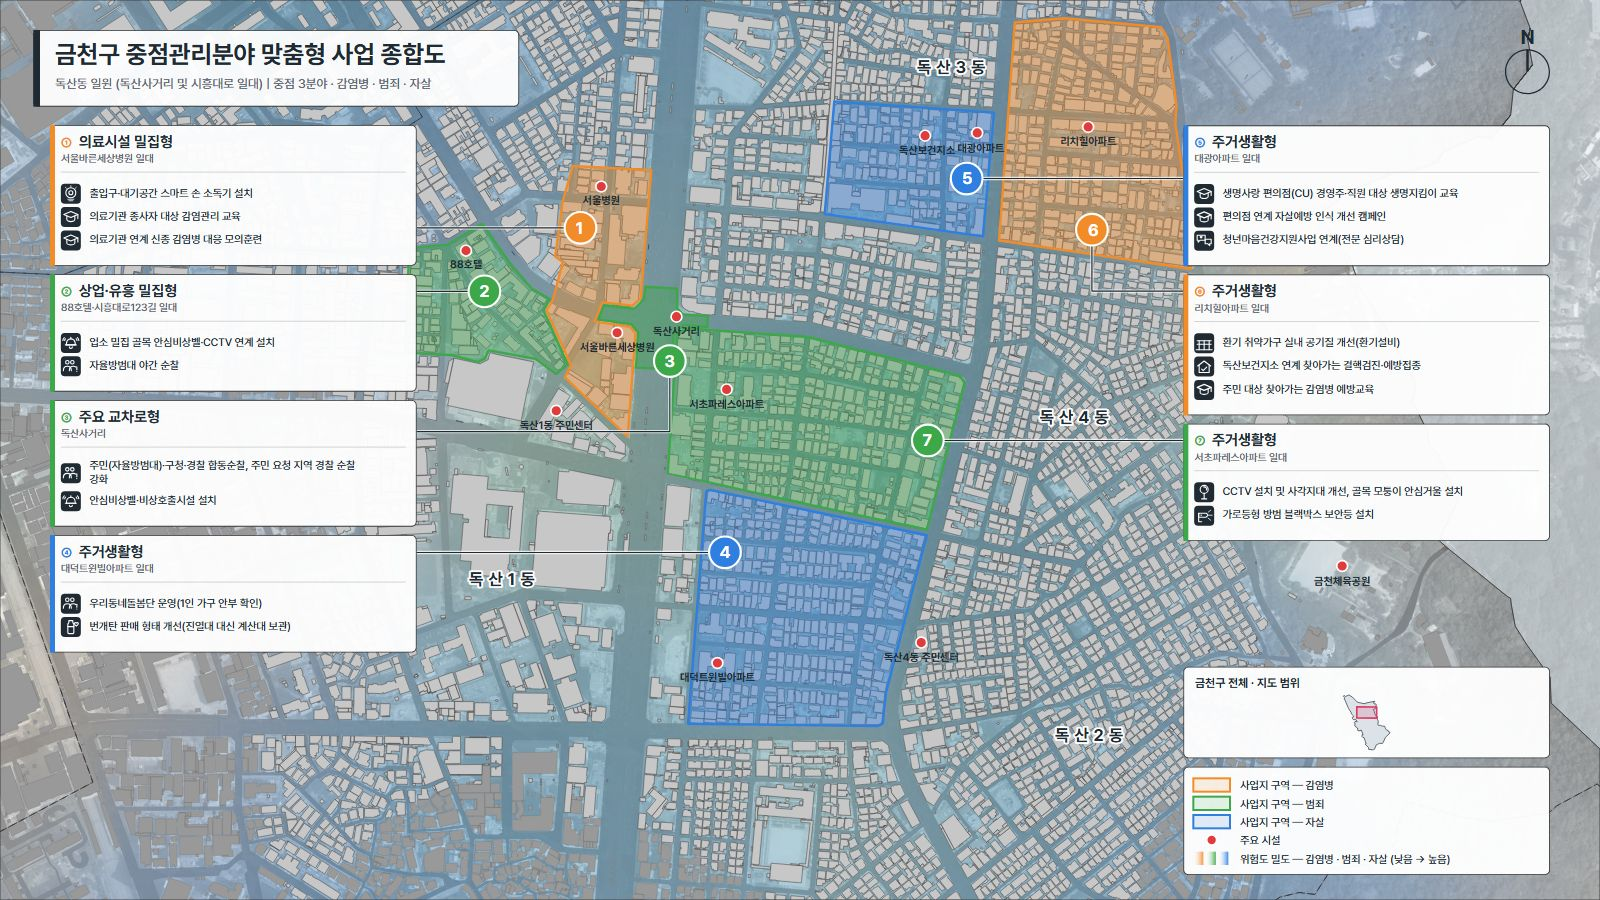
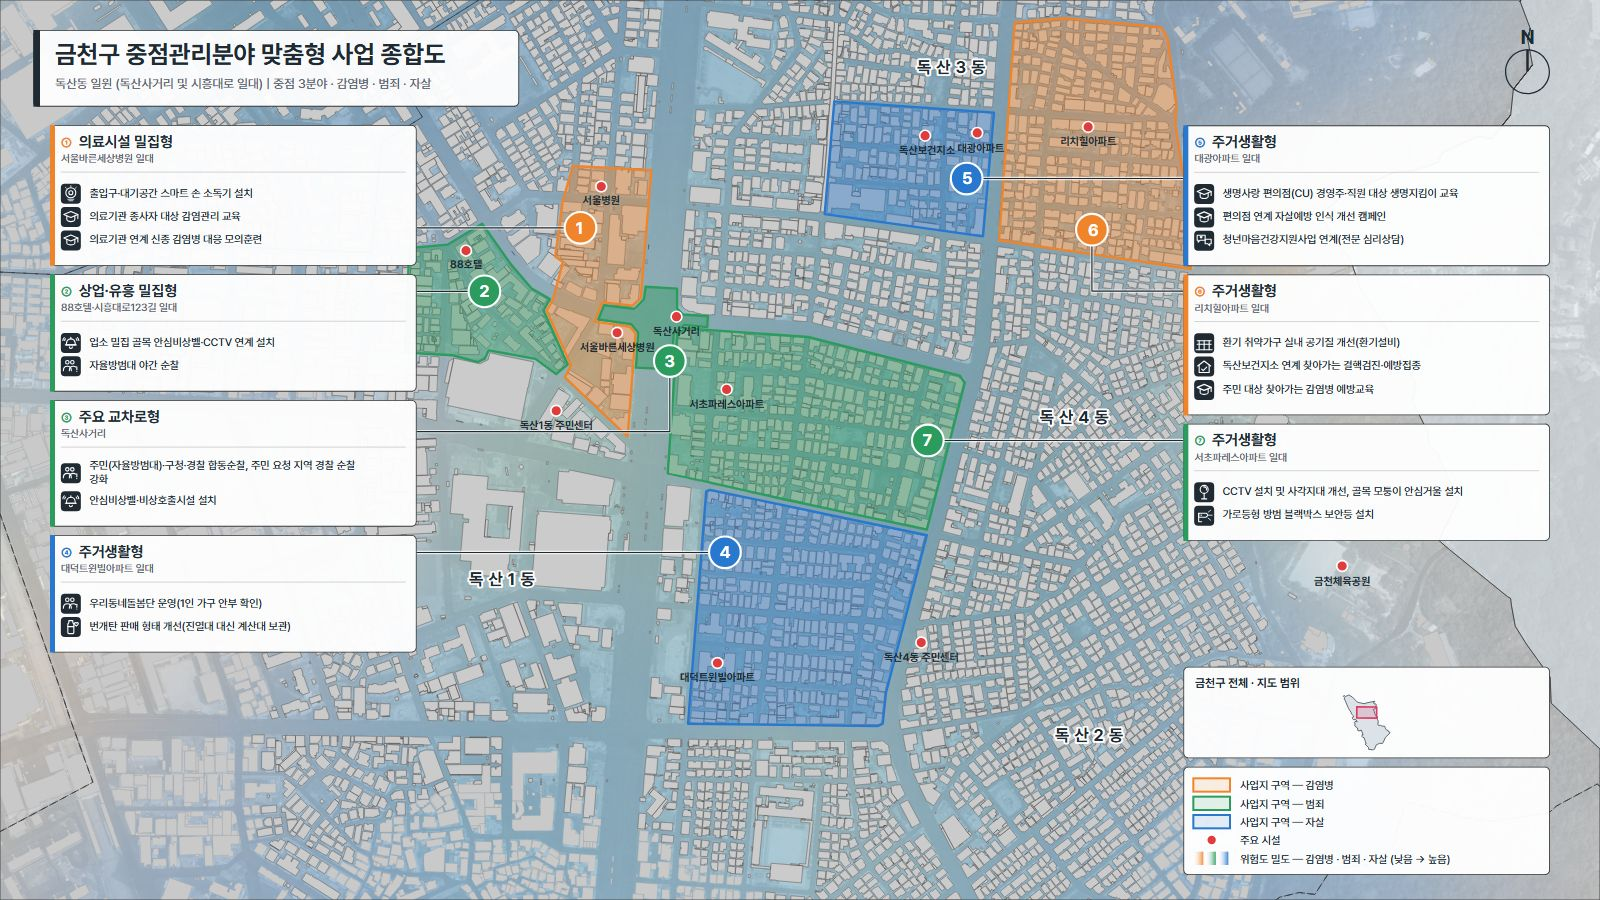
금천 종합도 — 담당자 수정본에 새 분야 색·도로·건물 색·위성 밝기·히트맵 색만 옮김(위치·글·상자 그대로)

diff --git a/notes/09_종합도-히트맵.md b/notes/09_종합도-히트맵.md
@@ -309,5 +309,6 @@ node run-pptx-region.mjs <지역> --pptx=<폴더> --png=<최종 PNG> --sdm=<SHP 
   → **같은 날 12곳 다시 그림**(강원대 분야에 화재가 있는 곳만: 미추홀·관악·목포·공주·나주·정읍·울산 중구·대전 중구·부산 동구·장흥·청송·태백) — `build-overview-map → export-jpg → svg-to-overlay`, 정합·틀은 그대로. 담당자 수정본(`_종합도_최종.svg`)은 금천뿐이라 겹치지 않음. 나머지 27곳은 화재가 없어 그대로. 오버레이 JSON 에는 색이 없고 화면(`index.html OVERVIEW_COLORS`)이 칠함.
 - **2026-11-09 남원·밀양 종합도** — 연속수치지형도 SHP(8레이어 × 2) → `data/raw/SDM_5K/52190_namwon · 48270_miryang/`(zip 원본은 `SDM_5K/261109/`). 축척 막대: 두 곳 모두 250m = 160px(**mpp 1.5625** — 다른 곳 0.6~0.9 보다 넓은 범위의 지도), `261030 남원시~밀양시/_pptx/mpp.json`. 순서는 `_pptx/batch-full.sh`(261022 판과 같음 + `check-pois --write`).
   - 결과: **남원** — 시설 3곳(광한루원·쌍교동성당·용남시장)이 같은 이동(1.7km)을 가리켜 `check-pois --write` 로 보정, 축척 1.522. **밀양** — 막대값으로는 시설이 1.5km 어긋나고 시설 1곳만 맞아(지지 부족) 자동 보정이 안 됨. 두 운동장 건물(밀양종합운동장 본 경기장 30,911㎡ · 삼문동공설운동장)로 축척·회전을 함께 풀어(`regions/miryang.json draft.affine5179`, 이전 값 `affine5179_prev3`) **축척 1.776 · 회전 -0.3°**(북쪽 위 지도와 따로 맞아떨어짐) · 검증 밀양교가 하천 면에서 75m. → **AURI 밀양 지도의 축척 막대가 실제와 약 14% 다름**. 밀양 ⑥(삼문주공아파트 인근) 구역이 바닥 가운데로 내린 제 설명 상자에 덮여 잘려 나갔던 것 → **생성기 고침**(`build-overview-map.mjs` 상자가 열에서 넘치면 ① 반대쪽 열 아래에 자리가 있으면 그리로 ② 없을 때만 바닥 띠의 가운데·왼쪽·오른쪽 중 구역을 가장 덜 덮는 자리로). 밀양은 ⑥ 상자가 왼쪽 열 끝으로 가 구역이 온전히 보임. 이미 만든 다른 지자체 그림은 다시 그릴 때만 바뀜(10/22 사상구처럼 바닥으로 내린 곳).
-- **2026-11-10 종합도 밝게 · 분야 색 톤 다듬음** (담당자 "지도가 너무 어둡다") — 위성 필터 `SAT` slope 0.60→0.36 · intercept 0.47→0.64(더 옅게), 도로 `#666`→`#A8A8A8`, 건물 `#999`→`#C9C9C9`·테두리 `#666`→`#A3A3A3`. 분야 색은 새 7색(CLAUDE.md 9번). 41곳 다시 그림(금천 JPG 는 담당자 수정본이라 옛 색·옛 밝기).
+- **2026-11-10 종합도 밝게 · 분야 색 톤 다듬음** (담당자 "지도가 너무 어둡다") — 위성 필터 `SAT` slope 0.60→0.36 · intercept 0.47→0.64(더 옅게), 도로 `#666`→`#A8A8A8`, 건물 `#999`→`#C9C9C9`·테두리 `#666`→`#A3A3A3`. 분야 색은 새 7색(CLAUDE.md 9번). 41곳 다시 그림(금천은 담당자 수정본에 색·밝기만 옮김 — 아래).
   ⚠ `export-jpg` 는 크롬을 **고정 포트 9345** 로 띄움 — 다른 종합도 작업을 도중에 멈추면 그 크롬이 남아 다음 내보내기가 **엉뚱한 지자체 화면을 찍음**(밀양 JPG 에 포천이 들어간 적 있음). 멈췄으면 `export-jpg-prof` 크롬을 끄고 다시, 종합도는 한 번에 하나씩.
+  - **금천 담당자 수정본도 색·밝기만 옮김**(11/10 담당자 "다른 건 안 건드린다는 가정하에") — 일러스트레이터 SVG 의 스타일 상자만 고침: 분야 3색(범죄·자살·감염병 — 스타일 + 범례 그라데이션) · 도로 `.st63` · 건물 `.st67`. 위성사진은 그림에 10/20 밝기(0.6x+0.47)가 구워져 있어 `feComponentTransfer` 0.6y+0.358 을 얹어 새 밝기(0.36x+0.64)와 같게. 히트맵 그림은 지금 생성본 그림과 알파 모양이 100% 같아(위치 동일) 새 색 그림으로 바꿔 끼움. 바꾸기 전 파일 `output/overview-map/geumcheon/geumcheon_종합도_최종_1110전.svg`. 앞으로 색을 또 바꾸면 같은 방법(스크래치 geumcheon-recolor.mjs 꼴).
